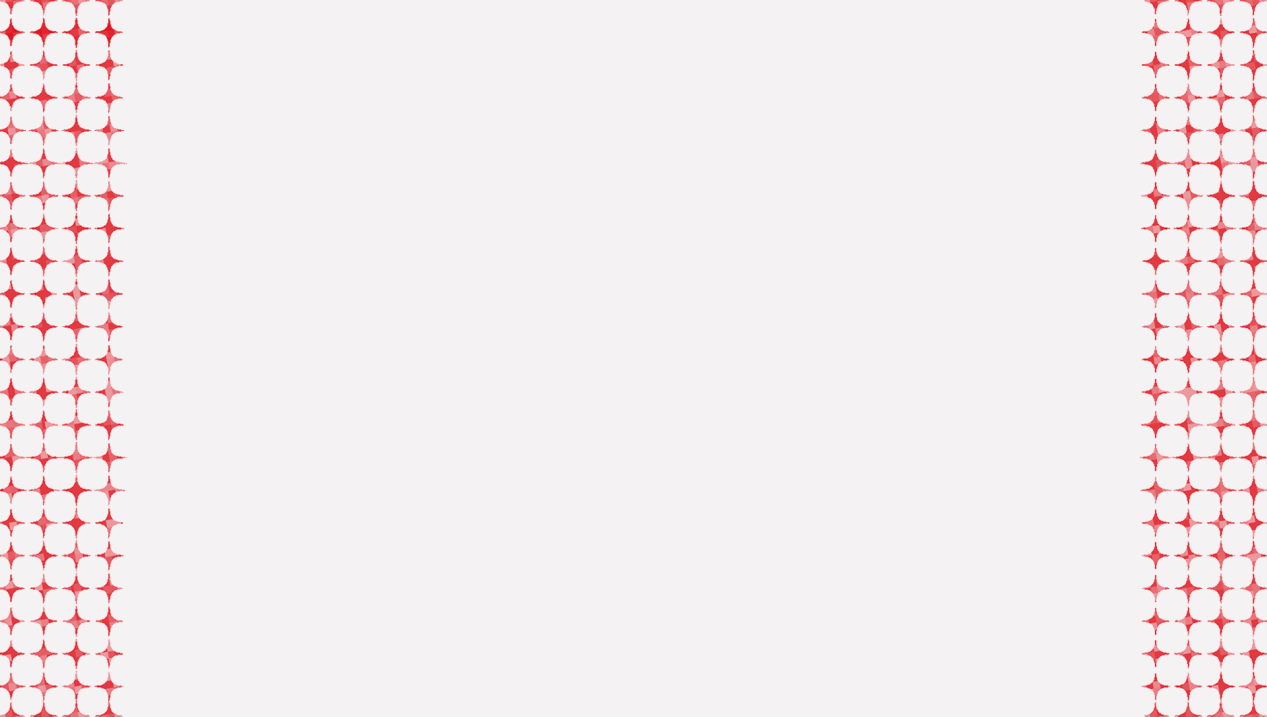
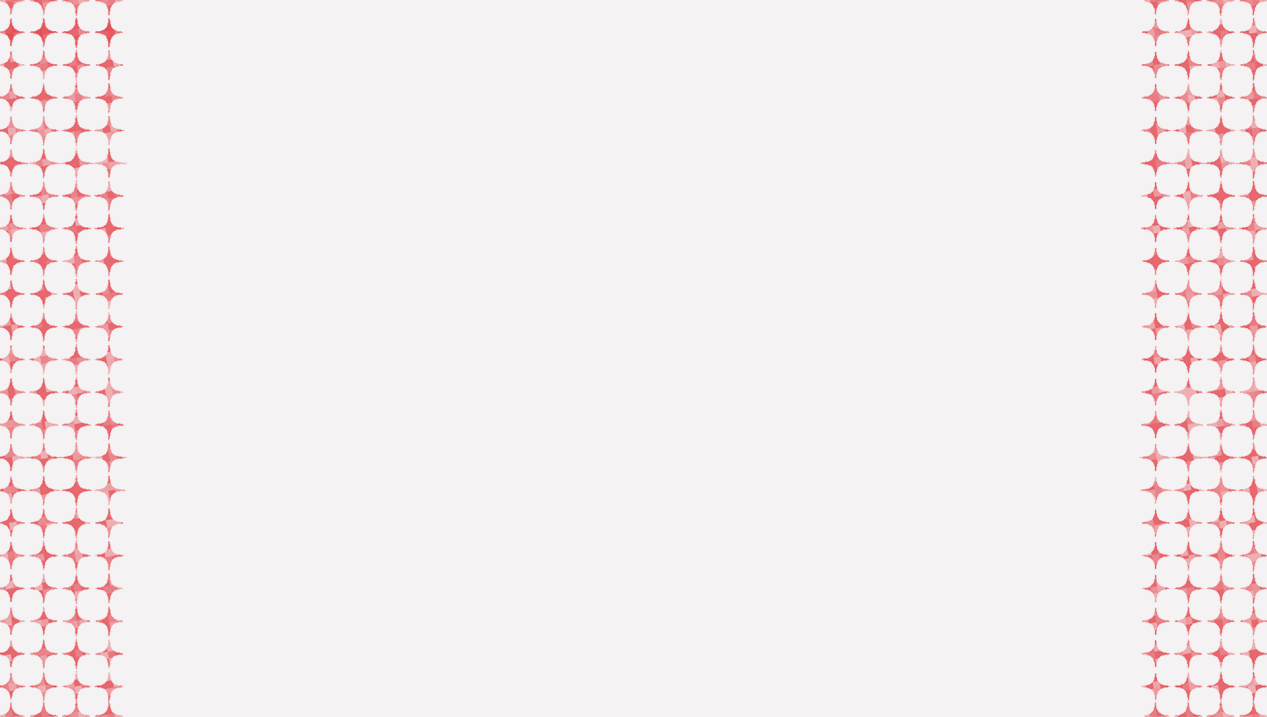
Final
Maybe finally done

diff --git a/WebsiteManifesto.html b/WebsiteManifesto.html
@@ -37,19 +37,19 @@
 	
 <div class="center-box">
 	
-	<div class="button">	
+		
 	<a href="#typeSection" 
 	   style="text-decoration: none" 
-	   rel="noopener noreferrer">
+	   rel="noopener noreferrer" class="button">
 		Typography</a>
-	</div>
+	
 		  
-		<div class="button">
+		
 		 <a href="#colorSection" 
 			style="text-decoration: none"
-			rel="noopener noreferrer">
+			rel="noopener noreferrer" class="button">
 			 Color and Design</a>
-	</div>
+	
 </div>
 	
 	<br><br>
@@ -86,7 +86,7 @@
 <p>A typeface is a collection of fonts while a font refers to a specific style or weight within a typeface family. So let’s put this context with an example. Helvetica is a typeface. But Helvetica Bold is a specific font within the Helvetica typeface family. Here’s a visual example so you can see the difference between a typeface and fonts.
 </p>
 		
-						<img src="IMG/fontsvtype.png" alt="image showing difference in legibility" width="100%"/>
+						<img src="IMG/fontsvtype.png" alt="image showing difference in legibility" width="100%"/><figcaption>Original Graphic by Me</figcaption>
 
 		
 		<h4>What is typography?</h4>
@@ -94,7 +94,7 @@
 
 <p>Typography serves two main purposes. The first is it must be legible. Can a user read and understand it? The second is how you use typography to create a mood or design aesthetic to attract a specific audience.</p>
 
-<p>Learning the fundamental rules of type, so you can break them later, will help you become a better designer. It just takes practice and a little knowledge. If you want to learn more about type and how it relates to design, check out this article What is typography?
+<p>Learning the fundamental rules of type, so you can break them later, will help you become a better designer. It just takes practice and a little knowledge.
 </p>
 		
 		<h4>Categories of type
@@ -102,7 +102,7 @@
 		<p>In order to know how to choose fonts, we need to understand the various categories of type, the characteristics of each, and recommended usage. In this guide, we’ll refer to three different categories of type when choosing font pairings.
 
 </p>
-		<img src="IMG/difftype.png" alt="image showing difference types of font; Serif, Sans-serif, and Decorative " width="100%"/>
+		<img src="IMG/difftype.png" alt="image showing difference types of font; Serif, Sans-serif, and Decorative " width="100%"/><figcaption>Original Graphic by Me</figcaption>
 		
 		<h4>Serif typefaces
 </h4>
@@ -128,12 +128,14 @@
 		<p>Just like choosing a color palette, it can be easy to get carried away with all the options available to use for your design. A good general rule is to stick to about 2–3 different typefaces total for a design. Now of course this might vary depending on what you are designing but it’s a good rule of thumb.
 		
 </p>
-	<img src="IMG/purpose.png" alt="image showing font pairing (Title-Quantico, Header-Unica One, Text-IBM PLEX SANS) " width="100%"/>
+	<img src="IMG/purpose.png" alt="image showing font pairing (Title-Quantico, Header-Unica One, Text-IBM PLEX SANS) " width="100%"/><figcaption>Original Graphic by Me</figcaption>
 	
 		<h4>Understand the goal for this design
 
 </h4>
 		<p>If you’re designing a brand or a website for a client, are they in an industry where they need a lot of trust from their customer? For example, maybe it’s a banking app. Or are they trying to disrupt the space they are in? In the same example, maybe you’re creating a site for a cryptocurrency app. Yes they want to gain the trust of their potential customer but they also want to stand out, maybe be a little more modern and bold to gain the attention and respect of a potential customer.</p>
+		
+		<p>If you want to try it out, here are some places to get started: <a href="https://fonts.google.com/" target="_blank" class="special-link" >Google Fonts</a> and <a href="https://fonts.adobe.com/"  target="_blank" class="special-link" >Adobe Fonts</a> </p>
 
 	</section>
 		</section>
@@ -155,14 +157,14 @@
 		
 			<p>Color choice helps determine whether the content on a page is readable. Legibility is optimized with an appropriate level of color contrast between the text and the background. Too little contrast makes the text hard to read; too much contrast is hard on the eyes. A classic example of color contrast is black text on a white background. If you look closely, you'll notice that many websites actually use dark grey text on a white or off-white background in order to maximize legibility while minimizing eye strain.</p>
 		
-				<img src="IMG/legibility.png" alt="image showing difference in legibility" width="100%"/>
+				<img src="IMG/legibility.png" alt="image showing difference in legibility" width="100%"/><figcaption>Original Graphic by Me</figcaption>
 	
 		
 		<h4>Visual appeal</h4>
 		
 			<p>When referring to visual appeal in web design, we're not talking about subjective color opinions. Instead, the emphasis is on creating harmonious color palettes that are easy on the eyes. Choosing colors that have broad visual appeal requires an understanding of color theory. As we'll discuss in more detail later on, there are three types of color schemes that have universal appeal: monochromatic, complementary, and analogous. Recognizing and knowing how to create these color schemes makes choosing colors for websites easier and more effective.</p>
 		
-		<img src="IMG/603010.png" alt="image showing an example of the 60-30-10 rule" width="100%"/>
+		<img src="IMG/603010.png" alt="image showing an example of the 60-30-10 rule" width="100%"/><figcaption>Original Graphic by Me</figcaption>
 
 		<h4>1. Choose a primary color</h4>
 		<p>The best place to start when creating a color palette is with the primary color. A palette's primary color is the star of the show. If we follow the 60/30/10 rule, the primary color takes up about 60% of the color on a website.
@@ -181,6 +183,9 @@
 		<p>Last but not least, every color palette should include an accent color. This color is used sparingly, taking up about 10% of real estate on a website. Often, the accent color contrasts strongly against the primary color. This contrast helps the accent color stand out and draw attention to important elements on the page, for instance buttons.
 </p>
 		
+		<p>Some resources you can Utilize are <a href="https://coolors.co/" target="_blank" class="special-link" >Coolor</a>, <a href="https://color.adobe.com/"  target="_blank" class="special-link" >Adobe</a>, and <a href="https://www.canva.com/colors/color-palette-generator/" target="_blank" class="special-link" >Canvas</a>. </p>
+		
+		
 		<h4>Contrast
 		
 </h4>
@@ -191,7 +196,7 @@
 Contrast serves two very important functions. First, it allows you to make elements stand out from one another. A complete lack of contrast would result in a design that’s simply a single background color with no other visible elements — not exactly a functional design. A design where you can see different elements automatically has some level of contrast.
 
 The second important function of contrast is accessibility. Sufficient contrast between elements, especially text and its background, is vital for creating an accessible design. People with vision impairments can have a difficult time reading text on a screen that is too small or does not have sufficient color contrast.</p>
-		<img src="IMG/contrast.png" alt="image showing an example of contrast between text and background" width="100%"/>
+		<img src="IMG/contrast.png" alt="image showing an example of contrast between text and background" width="100%"/><figcaption>Original Graphic by Me</figcaption>
 		
 		<h4>How to apply the principles of design</h4>
 		
@@ -201,9 +206,9 @@ Disregarding these principles of design should be done with caution, and only af
 
 		<div class="center-box">
 
-			<div class="button">	
-	<a href="#heroSection" style="text-decoration: none">BACK TO THE TOP</a>
-	</div>
+			
+	<a href="#heroSection" style="text-decoration: none" class="button" >BACK TO THE TOP</a>
+	
 		
 		</div>
 		
@@ -214,31 +219,32 @@ Disregarding these principles of design should be done with caution, and only af
 	<footer>
 		<fh3>Credits and Citation</fh3>
 		
-  		<p> <a href="https://www.flux-academy.com/blog/the-ultimate-guide-to-choosing-fonts" target="_blank">The Ultimate Guide to Choosing Fonts by Monica Galvan</a>  </p>
 		
-  		<p>	<a href="https://www.flux-academy.com/blog/ultimate-guide-to-choosing-colors-for-web-design" target="_blank">Ultimate Guide To Choosing Colors for Web Design by Stephanie Corrigan</a> </p>
+  		<p style="text-align:center"> <a href="https://www.flux-academy.com/blog/the-ultimate-guide-to-choosing-fonts" target="_blank">The Ultimate Guide to Choosing Fonts by Monica Galvan</a>  </p>
+		
+  		<p style="text-align:center">	<a href="https://www.flux-academy.com/blog/ultimate-guide-to-choosing-colors-for-web-design" target="_blank">Ultimate Guide To Choosing Colors for Web Design by Stephanie Corrigan</a> </p>
 			
- 		<p>	<a href="https://dribbble.com/stories/2018/12/19/choosing-colors-for-web-design-a-practical-ui-color-application-guide" target="_blank">Dribbble: Choosing colors for web design by Renee Fleck</a> </p>
+ 		<p style="text-align:center">	<a href="https://dribbble.com/stories/2018/12/19/choosing-colors-for-web-design-a-practical-ui-color-application-guide" target="_blank">Dribbble: Choosing colors for web design by Renee Fleck</a> </p>
 				
-		<p>	<a href="https://dribbble.com/resources/education/principles-of-design" target="_blank">11 Principles of Design by Renee Fleck</a> </p>
+		<p style="text-align:center">	<a href="https://dribbble.com/resources/education/principles-of-design" target="_blank">11 Principles of Design by Renee Fleck</a> </p>
 		
-		<p>	<a href="https://tilda.education/en/web-design-principles" target="_blank">10 Principles Of Good Web Design by Tilda</a> </p>
+	
 		
 		<h6>Looking to Get Started?</h6>
 		
 		
 	<div class="center-box">
-	<div class="button2">
-		 <a href="https://dribbble.com/tags/web-design" target="_blank" style="text-decoration: none" rel="noopener noreferrer">Dribbble</a>
-	</div>
 	
-	<div class="button2">
-		 <a href="https://www.siteinspire.com" target="_blank" style="text-decoration: none" rel="noopener noreferrer">Site Inspire</a>
-	</div>
+		 <a href="https://dribbble.com/tags/web-design" target="_blank" style="text-decoration: none" rel="noopener noreferrer" class="button2">Dribbble</a>
 	
-	<div class="button2">
-		 <a href="https://www.pinterest.com" target="_blank" style="text-decoration: none" rel="noopener noreferrer">Pinterest</a>
-	</div>
+	
+	
+		 <a href="https://www.siteinspire.com" target="_blank" style="text-decoration: none" rel="noopener noreferrer" class="button2">Site Inspire</a>
+	
+	
+	
+		 <a href="https://www.pinterest.com" target="_blank" style="text-decoration: none" rel="noopener noreferrer" class="button2">Pinterest</a>
+	
 		</div>
 	
 

diff --git a/CSSMANIFESTO.css b/CSSMANIFESTO.css
@@ -54,8 +54,8 @@ h4{ font-family: "Unica One", sans-serif;
   font-style: normal;
 	font-size: 3vw;
 	color:#000000;
-	padding-right: 35px;
-	padding-left: 35px;
+	padding-right: 45px;
+	padding-left: 50px;
 	margin-bottom: 20px;
 	}
 
@@ -65,6 +65,16 @@ h5{ font-family: "Unica One", sans-serif;
 	font-size: 3vw;
 	color:#DF101A;
 	}
+figcaption{ font-family: 'IBM Plex Sans';
+  font-weight: 250;
+  font-style: italic;
+	font-size: 1.5vw;
+	color:#373737;
+	text-align:right;	
+	padding-right: 50px;
+	padding-left: 50px;
+
+}
 
 p{ font-family: 'IBM Plex Sans';
   font-weight: 350;
@@ -171,6 +181,7 @@ font-family: "Unica One", sans-serif;
   margin: 4px 5px;
   cursor: pointer;
 	text-shadow: 0px 0px #E8E8E8;
+	
 }
 
 .button:hover{
@@ -179,7 +190,7 @@ font-family: "Unica One", sans-serif;
 	text-decoration: none;
 }
 
-a {
+a { 
 	color:#E8E8E8
 }
 a:hover{
@@ -212,16 +223,20 @@ font-family: "Unica One", sans-serif;
 
 
 
+.special-link  {
+  color:#DF101A;
+  text-decoration: underline;
+  font-weight: normal;
+font-style: italic;
 	
-
-
-
-ac {
-	color:#DF101A
 }
-ac:hover{
-	text-decoration:underline
+
+.special-link:hover {
+  color: #373737;
+
 }
+
+
 
 .center-box{
 	display:flex;
